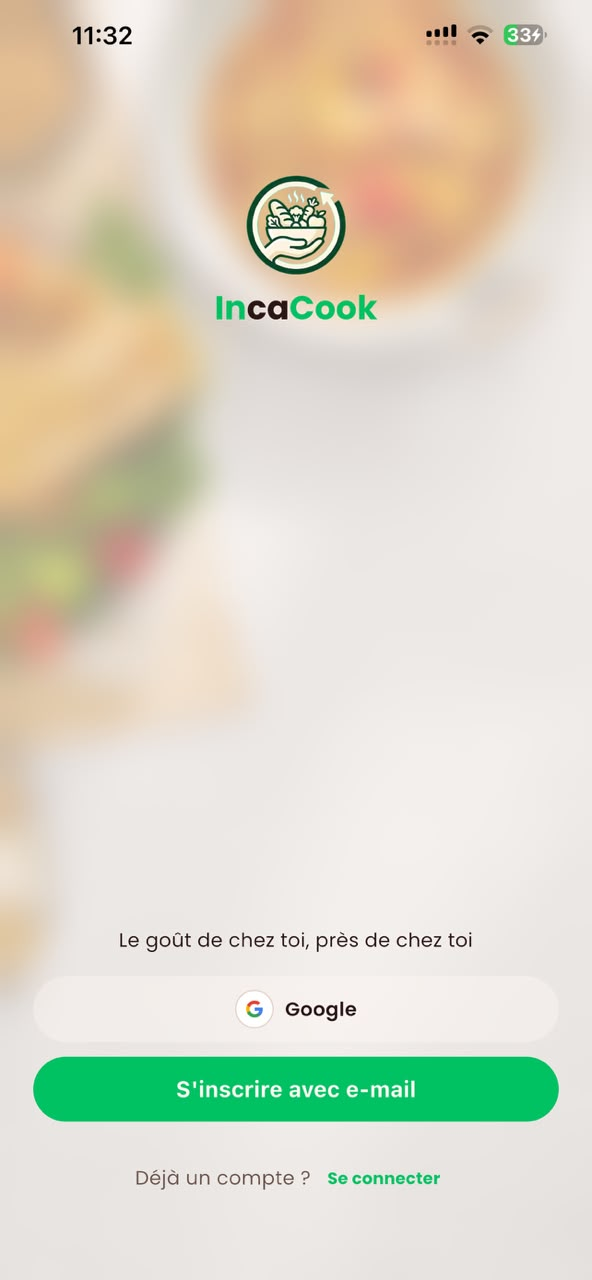
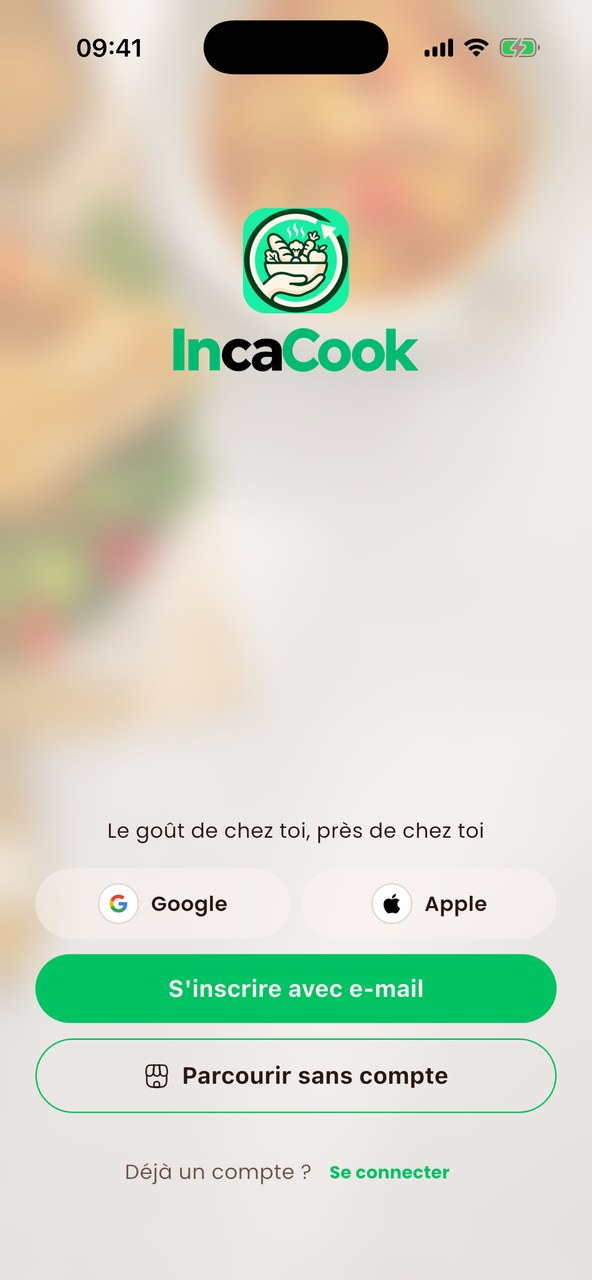
feat(landing): live store links, Instagram, refreshed landing images
- store-links: App Store and Google Play listings are live, so the hero shows
  real download buttons (anchor #telecharger now exists) and the footer badges
  link out. The 'bientot disponible' state remains as a fallback if a URL is
  ever cleared.
- Footer: Instagram link.
- Hero phone screenshot replaced with the current welcome screen (new logo);
  the baked-in logo lockup in the seller/driver store screenshots is replaced.

diff --git a/app/(public)/_components/store-cta.tsx b/app/(public)/_components/store-cta.tsx
@@ -3,8 +3,7 @@ import { STORE_LINKS } from "../_lib/store-links";
 
 /**
  * One store badge. Renders as a real link when its URL is set, or as an
- * inert "coming soon" pill when it's empty — the app isn't accepted on
- * either store yet, so there is nothing to link to (see `_lib/store-links.ts`).
+ * inert "coming soon" pill when it's empty (see `_lib/store-links.ts`).
  * A badge must never point at a placeholder anchor that goes nowhere.
  */
 function StoreBadge({ store, href, compact }: { store: "ios" | "android"; href: string; compact?: boolean }) {
@@ -26,18 +25,17 @@ function StoreBadge({ store, href, compact }: { store: "ios" | "android"; href: 
   }
 
   return (
-    <a href={href} className={cn(base, "border-outline-variant text-on-surface-variant transition-colors hover:text-on-surface")}>
+    <a href={href} target="_blank" rel="noopener noreferrer" className={cn(base, "border-outline-variant text-on-surface-variant transition-colors hover:text-on-surface")}>
       {label}
     </a>
   );
 }
 
 /**
- * The landing page's one primary CTA — "Télécharger l'app". Neither store
- * listing is live yet (app not yet accepted), so this renders an honest
- * "bientôt disponible" state rather than a working install button or a link
- * to nowhere. UA-sniffed platform preference and a real deep link are
- * TASK-028's job, once at least one listing goes live.
+ * The landing page's one primary CTA — "Télécharger l'app". Links straight to
+ * the App Store and Google Play listings. When a listing URL is empty (see
+ * `_lib/store-links.ts`) that store falls back to the inert "bientôt" pill,
+ * and if both are empty the whole CTA is an honest "bientôt disponible".
  */
 export function StoreCta({
   variant = "primary",
@@ -57,24 +55,47 @@ export function StoreCta({
     );
   }
 
-  return (
-    <div className={cn("flex flex-col gap-3", className)}>
-      <div
-        aria-disabled="true"
-        className="inline-flex w-fit cursor-default items-center gap-2 rounded-[14px] bg-outline-variant px-6 py-3 text-base font-semibold text-on-surface-variant"
-      >
-        Bientôt disponible
-      </div>
-      {bothPending ? (
+  if (bothPending) {
+    return (
+      <div id="telecharger" className={cn("flex flex-col gap-3", className)}>
+        <div
+          aria-disabled="true"
+          className="inline-flex w-fit cursor-default items-center gap-2 rounded-[14px] bg-outline-variant px-6 py-3 text-base font-semibold text-on-surface-variant"
+        >
+          Bientôt disponible
+        </div>
         <p className="text-xs text-on-surface-variant">
           L&apos;application est en cours de validation sur l&apos;App Store et Google Play.
         </p>
-      ) : (
-        <div className="flex items-center gap-2">
-          <StoreBadge store="ios" href={STORE_LINKS.ios} />
-          <StoreBadge store="android" href={STORE_LINKS.android} />
-        </div>
-      )}
+      </div>
+    );
+  }
+
+  return (
+    <div id="telecharger" className={cn("flex flex-col gap-3", className)}>
+      <div className="flex flex-wrap items-center gap-3">
+        {STORE_LINKS.ios ? <StoreButton store="ios" href={STORE_LINKS.ios} /> : null}
+        {STORE_LINKS.android ? <StoreButton store="android" href={STORE_LINKS.android} /> : null}
+      </div>
+      {!STORE_LINKS.ios || !STORE_LINKS.android ? (
+        <p className="text-xs text-on-surface-variant">
+          {STORE_LINKS.ios ? "Google Play" : "L'App Store"} : bientôt disponible.
+        </p>
+      ) : null}
     </div>
+  );
+}
+
+function StoreButton({ store, href }: { store: "ios" | "android"; href: string }) {
+  const label = store === "ios" ? "Télécharger sur l'App Store" : "Disponible sur Google Play";
+  return (
+    <a
+      href={href}
+      target="_blank"
+      rel="noopener noreferrer"
+      className="inline-flex w-fit items-center rounded-[14px] bg-primary px-6 py-3 text-base font-semibold text-primary-foreground transition-colors hover:bg-primary/90"
+    >
+      {label}
+    </a>
   );
 }

diff --git a/app/(public)/_lib/store-links.ts b/app/(public)/_lib/store-links.ts
@@ -1,14 +1,16 @@
 /**
  * App store destination URLs for the landing page's `<StoreCta />`.
  *
- * **DELIBERATELY EMPTY.** The app isn't accepted on either store yet — there
- * is nothing to link to. `<StoreCta />` treats an empty string as "not live"
- * and renders an honest "coming soon" state instead of a link, per the
- * plan's rule that a badge must never link nowhere. TASK-028 fills each one
- * in as its listing goes live — the two platforms don't have to land
- * together.
+ * Both listings are live. `<StoreCta />` still treats an empty string as
+ * "not live" and falls back to an honest "coming soon" state, so a badge
+ * never links nowhere if one of these is ever cleared.
  */
 export const STORE_LINKS = {
-  ios: "",
-  android: "",
+  ios: "https://apps.apple.com/us/app/incacook/id6783878120",
+  android: "https://play.google.com/store/apps/details?id=com.incacook.app",
+} as const;
+
+/** Public social profiles shown in the site footer. */
+export const SOCIAL_LINKS = {
+  instagram: "https://www.instagram.com/inca.cook/",
 } as const;

diff --git a/app/(public)/_components/site-footer.tsx b/app/(public)/_components/site-footer.tsx
@@ -1,5 +1,6 @@
 import Link from "next/link";
 
+import { SOCIAL_LINKS } from "../_lib/store-links";
 import { StoreCta } from "./store-cta";
 
 const LEGAL_LINKS = [
@@ -23,6 +24,19 @@ export function SiteFooter() {
 
           <StoreCta variant="compact" />
         </div>
+
+        <p>
+          Suivez-nous sur{" "}
+          <a
+            className="text-primary underline underline-offset-2"
+            href={SOCIAL_LINKS.instagram}
+            target="_blank"
+            rel="noopener noreferrer"
+          >
+            Instagram
+          </a>
+          .
+        </p>
 
         <p>
           Une question ? Écrivez-nous à{" "}

diff --git a/app/(public)/page.tsx b/app/(public)/page.tsx
@@ -24,9 +24,8 @@ export const metadata: Metadata = {
  * compliance fact are drawn from the PRD. The €4,50 fait-maison cap is an
  * IncaCook policy choice, not a statutory one — never describe it as legal.
  * Store
- * links are intentionally empty (app not yet accepted on either store —
- * see `_lib/store-links.ts`); hero/seller/driver imagery is real IncaCook
- * material, not placeholders.
+ * links live in `_lib/store-links.ts`; hero/seller/driver imagery is real
+ * IncaCook material, not placeholders.
  *
  * Every section below is a server component; `Faq` uses native
  * `<details>`/`<summary>` so it needs no client JS either.
